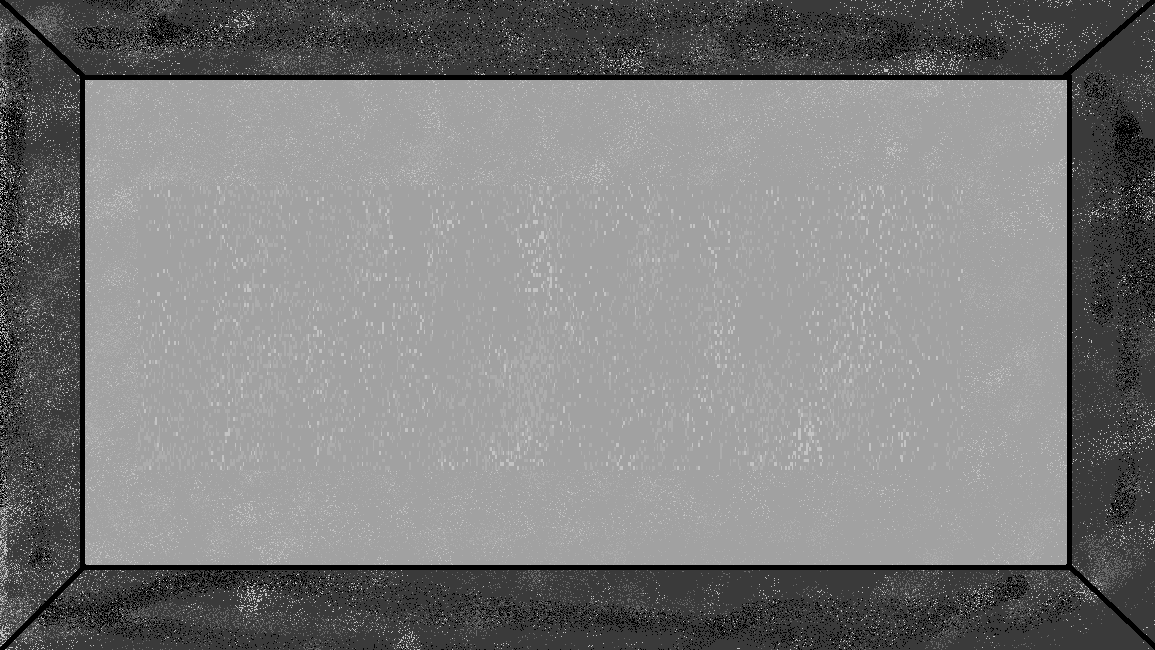
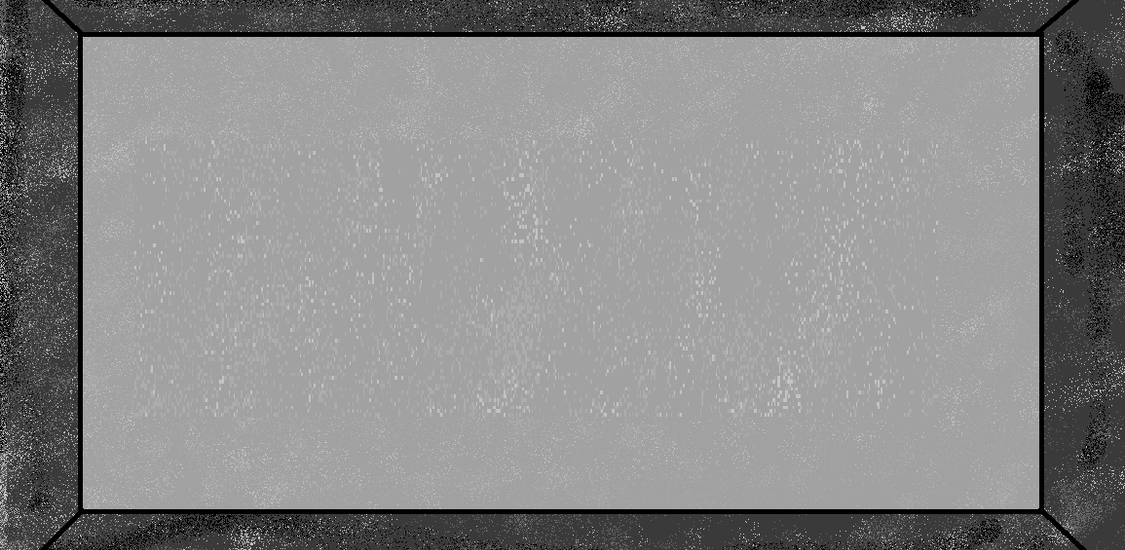
resized backgrounds

diff --git a/src/RoomPanes/SomePane.java b/src/RoomPanes/SomePane.java
@@ -1,4 +1,4 @@
-package starter;
+package RoomPanes;
 import java.awt.Color;
 import java.awt.event.ActionEvent;
 import java.awt.event.ActionListener;
@@ -11,6 +11,15 @@ import javax.swing.Timer;
 import acm.graphics.GImage;
 import acm.graphics.GObject;
 import acm.graphics.GRect;
+import starter.ElementType;
+import starter.Enemy;
+import starter.GraphicsPane;
+import starter.Interactions;
+import starter.KeyPressedManager;
+import starter.MainApplication;
+import starter.User;
+import starter.enemyType;
+import starter.interactionType;
 
 
 public class SomePane extends GraphicsPane implements ActionListener {
@@ -52,11 +61,9 @@ public class SomePane extends GraphicsPane implements ActionListener {
 		E1 = iE1.getImage();
 
 		userRep = new GImage("Rogue_(Sample User).gif");
-		userRep.setSize(75, 75);
 		userWeapon = new GImage("Fire Sword(RIGHT).png", 0, 0);
 		enemy1 = ienemy1.getImage();
 		enemy2 = ienemy2.getImage();
-		background.setSize(1125, 550);
 
 		voidSpace = new GRect(0,0);
 		voidSpace.setSize(1150,650);

diff --git a/src/RoomPanes/mapBase_R8.java b/src/RoomPanes/mapBase_R8.java
@@ -50,10 +50,8 @@ public class mapBase_R8 extends GraphicsPane implements ActionListener{
 		background = new GImage("Base_Floor (Regular Floor).png", 15,30);
 
 		userRep = new GImage("Rogue_(Sample User).gif");
-		userRep.setSize(75, 75);
 		userWeapon = new GImage("Fire Sword(RIGHT).png", 0, 0);
 
-		background.setSize(1125, 550);
 		voidSpace = new GRect(0,0);
 		voidSpace.setSize(1150,650);
 		voidSpace.setColor(Color.BLACK);
@@ -128,7 +126,6 @@ public class mapBase_R8 extends GraphicsPane implements ActionListener{
 		if(unlocked) {
 			program.remove(E15);
 			E15 = new GImage("entry_door_NORTH.png", 575, 28);
-			E15.setSize(75,75);
 			program.add(E15);
 		}
 	}
@@ -169,7 +166,6 @@ public class mapBase_R8 extends GraphicsPane implements ActionListener{
 		user.setY(200);
 		program.remove(E15);
 		E15 = new GImage("entry_door_NORTH.png", 575, 28);
-		E15.setSize(75,75);
 		program.add(E15);
 		userRep.setLocation(user.getX(), user.getY());
 		program.getUser().setHasKey(false);

diff --git a/src/RoomPanes/mapBase_R9.java b/src/RoomPanes/mapBase_R9.java
@@ -51,14 +51,11 @@ public class mapBase_R9 extends GraphicsPane implements ActionListener{
 		E16 = iE16.getImage();
 		ENext = iENext.getImage();
 		xok = ixokStill.getImage();
-		xok.setSize(75, 75);
 
 		background = new GImage("Base_Floor (Regular Floor).png", 15,30);
 		userRep = new GImage("Rogue_(Sample User).gif");
-		userRep.setSize(75, 75);
 		userWeapon = new GImage("Fire Sword(RIGHT).png", 0, 0);
 
-		background.setSize(1125, 550);
 		voidSpace = new GRect(0,0);
 		voidSpace.setSize(1150,650);
 		voidSpace.setColor(Color.BLACK);

diff --git a/src/RoomPanes/mapBase_R2.java b/src/RoomPanes/mapBase_R2.java
@@ -83,14 +83,12 @@ public class mapBase_R2 extends GraphicsPane implements ActionListener{
 		listOfEnemies.add(ienemy2);
 		
 		userRep = new GImage("Rogue_(Sample User).gif");
-		userRep.setSize(75, 75);
 		userWeapon = new GImage("Fire Sword(RIGHT).png", 0, 0);
 
 		voidSpace = new GRect(0,0);
 		voidSpace.setSize(1150,650);
 		voidSpace.setColor(Color.BLACK);
 		voidSpace.setFilled(true);
-		background.setSize(1125, 550);
 		
 		elements.add(background);
 		elements.add(rock1);

diff --git a/src/RoomPanes/mapBase_R5.java b/src/RoomPanes/mapBase_R5.java
@@ -53,10 +53,8 @@ public class mapBase_R5 extends GraphicsPane implements ActionListener{
 		E10 = iE10.getImage();
 		background = new GImage("Base_Floor (Regular Floor).png", 15,30);
 		userRep = new GImage("Rogue_(Sample User).gif");
-		userRep.setSize(75, 75);
 		userWeapon = new GImage("Fire Sword(RIGHT).png", 0, 0);
 
-		background.setSize(1125, 550);
 		voidSpace = new GRect(0,0);
 		voidSpace.setSize(1150,650);
 		voidSpace.setColor(Color.BLACK);

diff --git a/src/RoomPanes/mapBase_R4.java b/src/RoomPanes/mapBase_R4.java
@@ -58,9 +58,7 @@ public class mapBase_R4 extends GraphicsPane implements ActionListener{
 		background = new GImage("Base_Floor (Regular Floor).png", 15,30);
 		userRep = new GImage("Rogue_(Sample User).gif", 0, 0);
 		userWeapon = new GImage("Fire Sword(RIGHT).png", 0, 0);
-		userRep.setSize(75, 75);
 		
-		background.setSize(1125, 550);
 		voidSpace = new GRect(0,0);
 		voidSpace.setSize(1150,650);
 		voidSpace.setColor(Color.BLACK);

diff --git a/src/RoomPanes/mapBase_R7.java b/src/RoomPanes/mapBase_R7.java
@@ -58,10 +58,8 @@ public class mapBase_R7 extends GraphicsPane implements ActionListener{
 		background = new GImage("Base_Floor (Regular Floor).png", 15,30);
 		
 		userRep = new GImage("Rogue_(Sample User).gif");
-		userRep.setSize(75, 75);
 		userWeapon = new GImage("Fire Sword(RIGHT).png", 0, 0);
 		
-		background.setSize(1125, 550);
 		voidSpace = new GRect(0,0);
 		voidSpace.setSize(1150,650);
 		voidSpace.setColor(Color.BLACK);

diff --git a/src/RoomPanes/mapBase_R6.java b/src/RoomPanes/mapBase_R6.java
@@ -46,9 +46,7 @@ public class mapBase_R6 extends GraphicsPane implements ActionListener{
 		background = new GImage("Base_Floor (Regular Floor).png", 15,30);
 		
 		userRep = new GImage("Rogue_(Sample User).gif");
-		userRep.setSize(75, 75);
 		userWeapon = new GImage("Fire Sword(RIGHT).png", 0, 0);
-		background.setSize(1125, 550);
 		voidSpace = new GRect(0,0);
 		voidSpace.setSize(1150,650);
 		voidSpace.setColor(Color.BLACK);

diff --git a/src/RoomPanes/mapBase_R3.java b/src/RoomPanes/mapBase_R3.java
@@ -68,9 +68,7 @@ public class mapBase_R3 extends GraphicsPane implements ActionListener{
 		
 		userRep = new GImage("Rogue_(Sample User).gif", user.getX(), user.getY());
 		userWeapon = new GImage("Fire Sword(RIGHT).png", 0, 0);
-		userRep.setSize(75, 75);
 
-		background.setSize(1125, 550);
 		voidSpace = new GRect(0,0);
 		voidSpace.setSize(1150,650);
 		voidSpace.setColor(Color.BLACK);

diff --git a/src/starter/MainApplication.java b/src/starter/MainApplication.java
@@ -4,6 +4,7 @@ import java.awt.Color;
 import java.awt.event.ActionListener;
 
 import RoomPanes.MenuPane_LightsOff;
+import RoomPanes.SomePane;
 import RoomPanes.mapBase_R2;
 import RoomPanes.mapBase_R2TEST;
 import RoomPanes.mapBase_R3;
